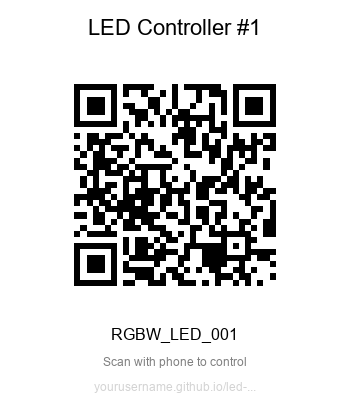
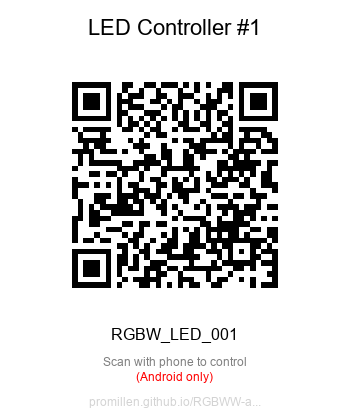
updated firmware and ascii art

Changed region(s): [[0.2, 0.1857, 0.8, 0.7119], [0.2571, 0.8667, 0.7143, 0.9905], [0.4, 0.9595, 0.4286, 0.9905]]

diff --git a/webapp/index.html b/webapp/index.html
@@ -550,12 +550,12 @@
             ALIVE LIGHT CONTROL
         </div>
 
-        <div class="ascii-art"> █████╗ ██╗ ██╗██╗ ██╗███████╗
-            ██╔══██╗██║ ██║██║ ██║██╔════╝
-            ███████║██║ ██║██║ ██║█████╗
-            ██╔══██║██║ ██║╚██╗ ██╔╝██╔══╝
-            ██║ ██║███████╗██║ ╚████╔╝ ███████╗
-            ╚═╝ ╚═╝╚══════╝╚═╝ ╚═══╝ ╚══════╝</div>
+        <div class="ascii-art"> █████╗ ██╗     ██╗██╗   ██╗███████╗
+██╔══██╗██║     ██║██║   ██║██╔════╝
+███████║██║     ██║██║   ██║█████╗  
+██╔══██║██║     ██║╚██╗ ██╔╝██╔══╝  
+██║  ██║███████╗██║ ╚████╔╝ ███████╗
+╚═╝  ╚═╝╚══════╝╚═╝  ╚═══╝  ╚══════╝</div>
 
         <div class="terminal-body">
             <div id="deviceInfo" class="device-info" style="display: none;">

diff --git a/firmware/main/light_effects.c b/firmware/main/light_effects.c
@@ -32,12 +32,11 @@ static uint32_t effect_counter = 0;
 // Fade effect variables
 static float hue = 0.0f;
 
-// Color cycle variables
+// Color cycle variables - updated for hold-then-change behavior
 static uint32_t cycle_timer = 0;
-static uint8_t current_color[3] = {255, 0, 0}; // Current RGB color
-static uint8_t target_color[3] = {0, 255, 0};  // Target RGB color
-static uint32_t transition_duration = 0;
-static uint32_t transition_start = 0;
+static uint8_t current_color[3] = {255, 0, 0}; // Current RGB color being displayed
+static uint32_t hold_duration = 0;             // How long to hold the current color
+static bool color_changed = false;             // Flag to track when we need to pick a new color
 
 // Lightning variables
 static uint32_t lightning_timer = 0;
@@ -65,6 +64,20 @@ static uint32_t strobe_timer = 0;
     #define FADE_SPEED_MULT 0.002f
 #else
     #error "No board configuration selected. Please run 'idf.py menuconfig'"
+#endif
+
+// Calculate fade speed for controllable fade (30-second base) and default fade (2-minute base)
+// 30 seconds = 30000ms, 2 minutes = 120000ms
+#ifdef CONFIG_BOARD_ESP32C3_OLED
+    // Controllable fade: 30000ms / 50ms = 600 steps
+    #define FADE_30_SECOND_INCREMENT (1.0f / (30000.0f / EFFECT_UPDATE_INTERVAL_MS))
+    // Default fade: 120000ms / 50ms = 2400 steps
+    #define FADE_2_MINUTE_INCREMENT (1.0f / (240000.0f / EFFECT_UPDATE_INTERVAL_MS))
+#elif defined(CONFIG_BOARD_ESP32C3_NO_OLED)
+    // Controllable fade: 30000ms / 20ms = 1500 steps
+    #define FADE_30_SECOND_INCREMENT (1.0f / (30000.0f / EFFECT_UPDATE_INTERVAL_MS))
+    // Default fade: 120000ms / 20ms = 6000 steps
+    #define FADE_2_MINUTE_INCREMENT (1.0f / (340000.0f / EFFECT_UPDATE_INTERVAL_MS))
 #endif
 
 // Helper function to convert HSV to RGB
@@ -114,11 +127,6 @@ static void generate_random_color(uint8_t *r, uint8_t *g, uint8_t *b) {
     hsv_to_rgb(random_hue, 1.0f, 1.0f, r, g, b);
 }
 
-// Linear interpolation between two colors
-static uint8_t lerp_color(uint8_t from, uint8_t to, float progress) {
-    return from + (uint8_t)((to - from) * progress);
-}
-
 // 1. OFF - Turn everything off
 static void effect_off(void) {
     pwm_set_rgbw(0, 0, 0, 0);
@@ -131,23 +139,34 @@ static void effect_static(void) {
     pwm_set_rgbw(r, g, b, w);
 }
 
-// 3. FADE - Unified fade effect with chip-specific optimization
+// 3. FADE - 30-second controllable fade or 2-minute default fade
 static void effect_fade(void) {
     uint8_t r, g, b;
     uint32_t scaled_r, scaled_g, scaled_b, scaled_w = 0;
     
-    // Calculate speed based on driver type and speed setting
-    float speed_factor = (config.speed / 255.0f) * FADE_SPEED_MULT;
+    float hue_increment;
     
-#ifdef CONFIG_BOARD_ESP32C3_OLED
-    // AL8860: Slower, more stable fade
-    hue += speed_factor;
-#elif defined(CONFIG_BOARD_ESP32C3_NO_OLED)
-    // LM3414: Faster, more precise fade using higher resolution
-    hue += speed_factor * 2.0f; // Can handle faster transitions
-#endif
+    if (ble_connected) {
+        // When BLE is connected, use controllable 30-second base with speed adjustment
+        // Speed 0 = slowest (30 seconds base), Speed 255 = fastest (3 seconds)
+        // Formula: actual_time = 30 - (speed/255 * 27) seconds
+        float speed_multiplier = 1.0f + (config.speed / 255.0f) * 9.0f; // 1x to 10x speed
+        hue_increment = FADE_30_SECOND_INCREMENT * speed_multiplier;
+    } else {
+        // When BLE is NOT connected, use slow 2-minute fade (ignores speed setting)
+        hue_increment = FADE_2_MINUTE_INCREMENT;
+    }
     
-    if (hue >= 1.0f) hue = 0.0f;
+    hue += hue_increment;
+    
+    if (hue >= 1.0f) {
+        hue = 0.0f;
+        if (ble_connected) {
+            ESP_LOGI(TAG, "🌈 Fade effect completed one cycle (30-second base, speed=%d)", config.speed);
+        } else {
+            ESP_LOGI(TAG, "🌈 Default fade completed one cycle (2-minute cycle)");
+        }
+    }
     
     hsv_to_rgb(hue, 1.0f, 1.0f, &r, &g, &b);
     
@@ -161,47 +180,43 @@ static void effect_fade(void) {
     pwm_set_rgbw(scaled_r, scaled_g, scaled_b, scaled_w);
 }
 
-// 4. COLOUR CYCLE - Switch between random colors
+// 4. COLOUR CYCLE - Hold one color, then instantly change to new random color
 static void effect_colour_cycle(void) {
     uint32_t scaled_r, scaled_g, scaled_b, scaled_w = 0;
     
-    // Calculate transition duration based on speed (slower speed = longer transitions)
-    if (transition_duration == 0) {
-        transition_duration = (255 - config.speed) * 5 + 50; // 50-1325 ticks
-        transition_start = effect_counter;
+    // Initialize hold duration on first run or when we need a new color
+    if (hold_duration == 0 || color_changed) {
+        // Calculate hold duration based on speed (slower speed = longer hold)
+        // Speed 0 = 10 seconds hold, Speed 255 = 1 second hold
+        uint32_t base_hold_ms = 10000; // 10 seconds
+        uint32_t min_hold_ms = 1000;   // 1 second
+        uint32_t hold_ms = base_hold_ms - ((config.speed * (base_hold_ms - min_hold_ms)) / 255);
+        hold_duration = hold_ms / EFFECT_UPDATE_INTERVAL_MS; // Convert to ticks
+        
+        // Generate new random color if this is a color change
+        if (color_changed || cycle_timer == 0) {
+            generate_random_color(&current_color[0], &current_color[1], &current_color[2]);
+            ESP_LOGI(TAG, "🎨 New color: R=%d, G=%d, B=%d (hold for %.1fs)", 
+                     current_color[0], current_color[1], current_color[2], 
+                     (float)hold_ms / 1000.0f);
+        }
+        
+        cycle_timer = 0;
+        color_changed = false;
     }
     
-    // Check if we need to start a new transition
-    if (effect_counter - transition_start >= transition_duration) {
-        // Move target to current and generate new target
-        current_color[0] = target_color[0];
-        current_color[1] = target_color[1];
-        current_color[2] = target_color[2];
-        
-        // Generate new random target color
-        generate_random_color(&target_color[0], &target_color[1], &target_color[2]);
-        
-        // Reset transition
-        transition_start = effect_counter;
-        transition_duration = (255 - config.speed) * 5 + 50;
+    cycle_timer++;
+    
+    // Check if it's time to change color
+    if (cycle_timer >= hold_duration) {
+        color_changed = true;
+        hold_duration = 0; // Reset to trigger new color generation
     }
     
-    // Calculate progress (0.0 to 1.0)
-    float progress = (float)(effect_counter - transition_start) / transition_duration;
-    if (progress > 1.0f) progress = 1.0f;
-    
-    // Smooth easing function for better visual appeal
-    progress = progress * progress * (3.0f - 2.0f * progress);
-    
-    // Interpolate between current and target colors
-    uint8_t r = lerp_color(current_color[0], target_color[0], progress);
-    uint8_t g = lerp_color(current_color[1], target_color[1], progress);
-    uint8_t b = lerp_color(current_color[2], target_color[2], progress);
-    
-    // Scale to driver resolution
-    scaled_r = scale_to_driver_resolution(r);
-    scaled_g = scale_to_driver_resolution(g);
-    scaled_b = scale_to_driver_resolution(b);
+    // Display current color (no transition/interpolation)
+    scaled_r = scale_to_driver_resolution(current_color[0]);
+    scaled_g = scale_to_driver_resolution(current_color[1]);
+    scaled_b = scale_to_driver_resolution(current_color[2]);
     
     apply_brightness(&scaled_r, &scaled_g, &scaled_b, &scaled_w, config.brightness);
     
@@ -349,6 +364,8 @@ static void effect_strobe(void) {
 // Main effects task
 static void effects_task(void *pvParameters) {
     ESP_LOGI(TAG, "Effects task started for %s", LED_DRIVER_TYPE);
+    ESP_LOGI(TAG, "Fade: 30s controllable (when connected) / 2min default (disconnected)");
+    ESP_LOGI(TAG, "Color cycle: hold-then-change behavior");
     
     while (1) {
         if (!config.enabled) {
@@ -381,7 +398,7 @@ static void effects_task(void *pvParameters) {
             case EFFECT_COLOUR_CYCLE:
                 effect_colour_cycle();
                 break;
-
+                
             case EFFECT_LIGHTNING:
                 effect_lightning();
                 break;
@@ -466,7 +483,8 @@ void light_effects_set_effect(light_effect_t effect) {
             effect_counter = 0;
             hue = 0.0f;
             cycle_timer = 0;
-            transition_duration = 0;
+            hold_duration = 0;
+            color_changed = true; // Force new color selection for color cycle
             lightning_timer = 0;
             lightning_active = false;
             lightning_phase = 0;

diff --git a/qr_generator/generate_qr.py b/qr_generator/generate_qr.py
@@ -101,6 +101,13 @@ def generate_qr_codes(base_url, num_devices=10, device_prefix="RGBW_LED", start_
         instr_x = (img_width - instr_width) // 2
         draw.text((instr_x, 355), instruction_text, fill="gray", font=small_font)
         
+        # Android only notice
+        android_text = "(Android only)"
+        android_bbox = draw.textbbox((0, 0), android_text, font=small_font)
+        android_width = android_bbox[2] - android_bbox[0]
+        android_x = (img_width - android_width) // 2
+        draw.text((android_x, 370), android_text, fill="red", font=small_font)
+        
         # Website URL (for reference)
         url_parts = base_url.replace("https://", "").replace("http://", "")
         url_text = url_parts
@@ -110,7 +117,7 @@ def generate_qr_codes(base_url, num_devices=10, device_prefix="RGBW_LED", start_
         url_bbox = draw.textbbox((0, 0), url_text, font=small_font)
         url_width = url_bbox[2] - url_bbox[0]
         url_x = (img_width - url_width) // 2
-        draw.text((url_x, 380), url_text, fill="lightgray", font=small_font)
+        draw.text((url_x, 395), url_text, fill="lightgray", font=small_font)
         
         # Save image
         filename = f"{output_dir}/{device_id}_qr.png"
@@ -158,7 +165,7 @@ def generate_batch_sheet(output_dir, cols=3):
 
 def main():
     parser = argparse.ArgumentParser(description='Generate QR codes for LED controllers')
-    parser.add_argument('--url', default='https://yourusername.github.io/led-control', 
+    parser.add_argument('--url', default='https://promillen.github.io/RGBWW-app-control', 
                        help='Base URL for the web app')
     parser.add_argument('--count', type=int, default=10, 
                        help='Number of QR codes to generate')

diff --git a/firmware/main/pwm_control.h b/firmware/main/pwm_control.h
@@ -32,9 +32,9 @@ typedef enum {
     #undef CONFIG_GPIO_BLUE
     #undef CONFIG_GPIO_WARM_WHITE
     #define CONFIG_GPIO_RED 10
-    #define CONFIG_GPIO_GREEN 9
+    #define CONFIG_GPIO_GREEN 7
     #define CONFIG_GPIO_BLUE 8
-    #define CONFIG_GPIO_WARM_WHITE 7
+    #define CONFIG_GPIO_WARM_WHITE 9
     
     #undef CONFIG_LED_MAX_CURRENT_MA
     #define CONFIG_LED_MAX_CURRENT_MA 1500
